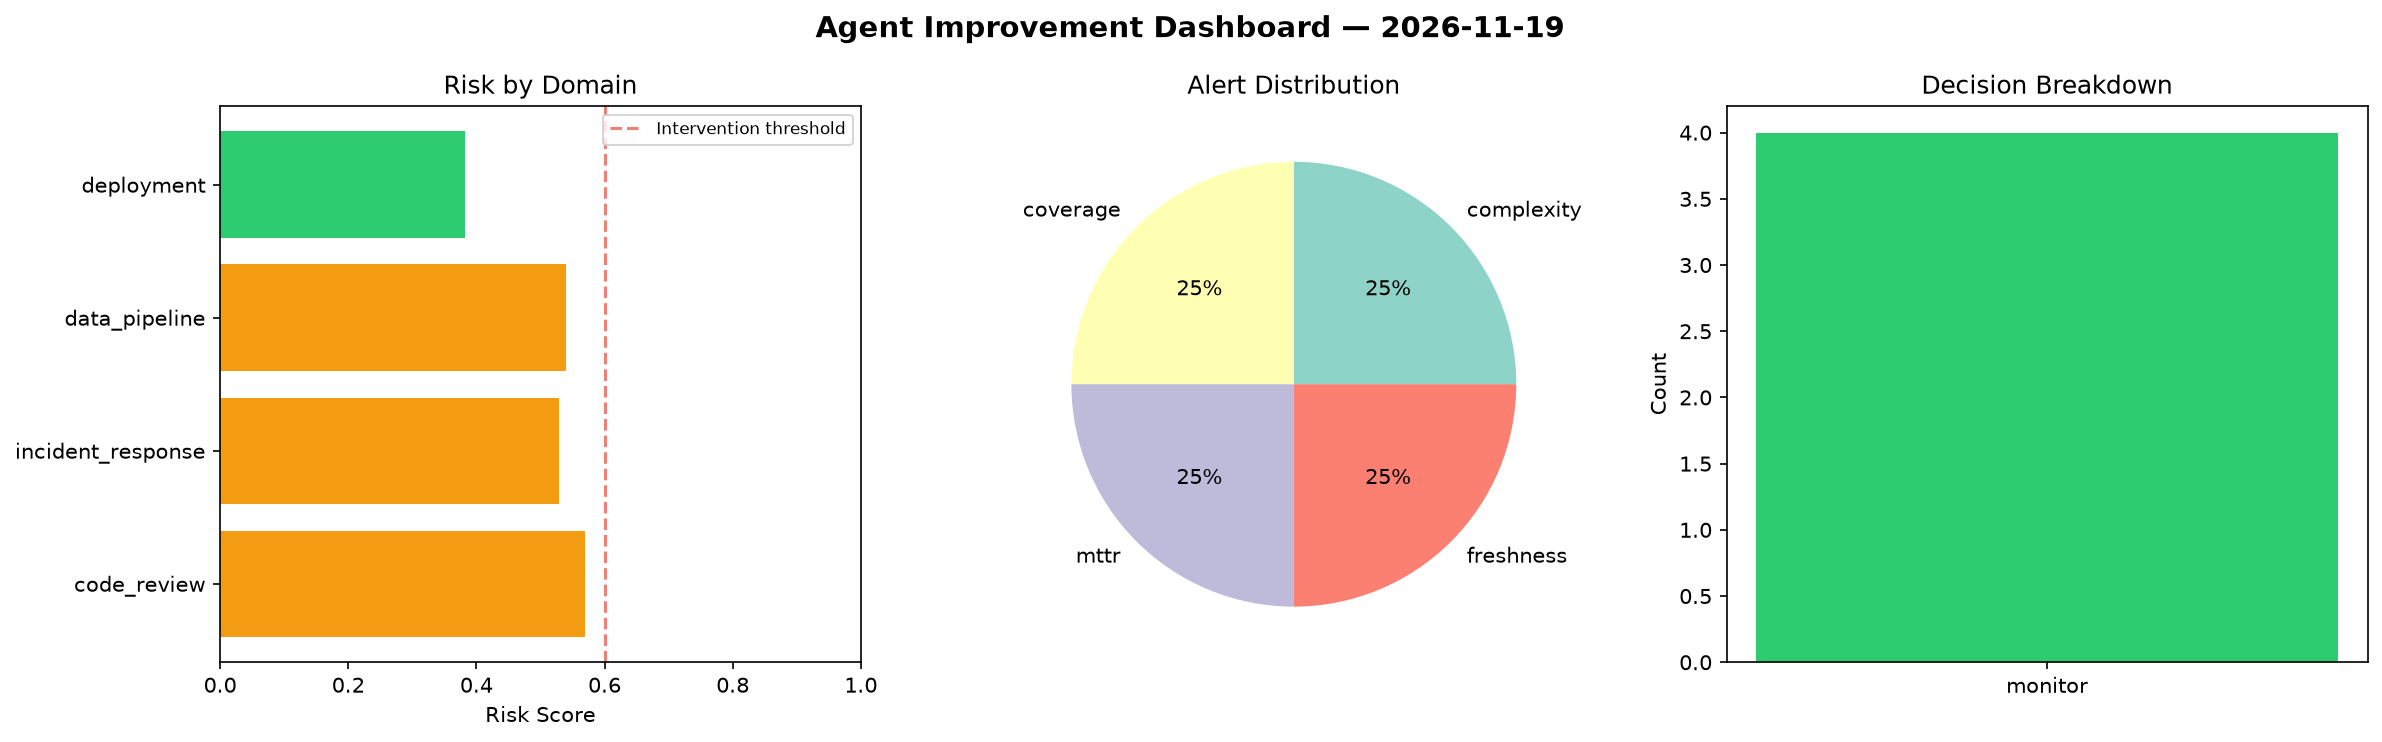
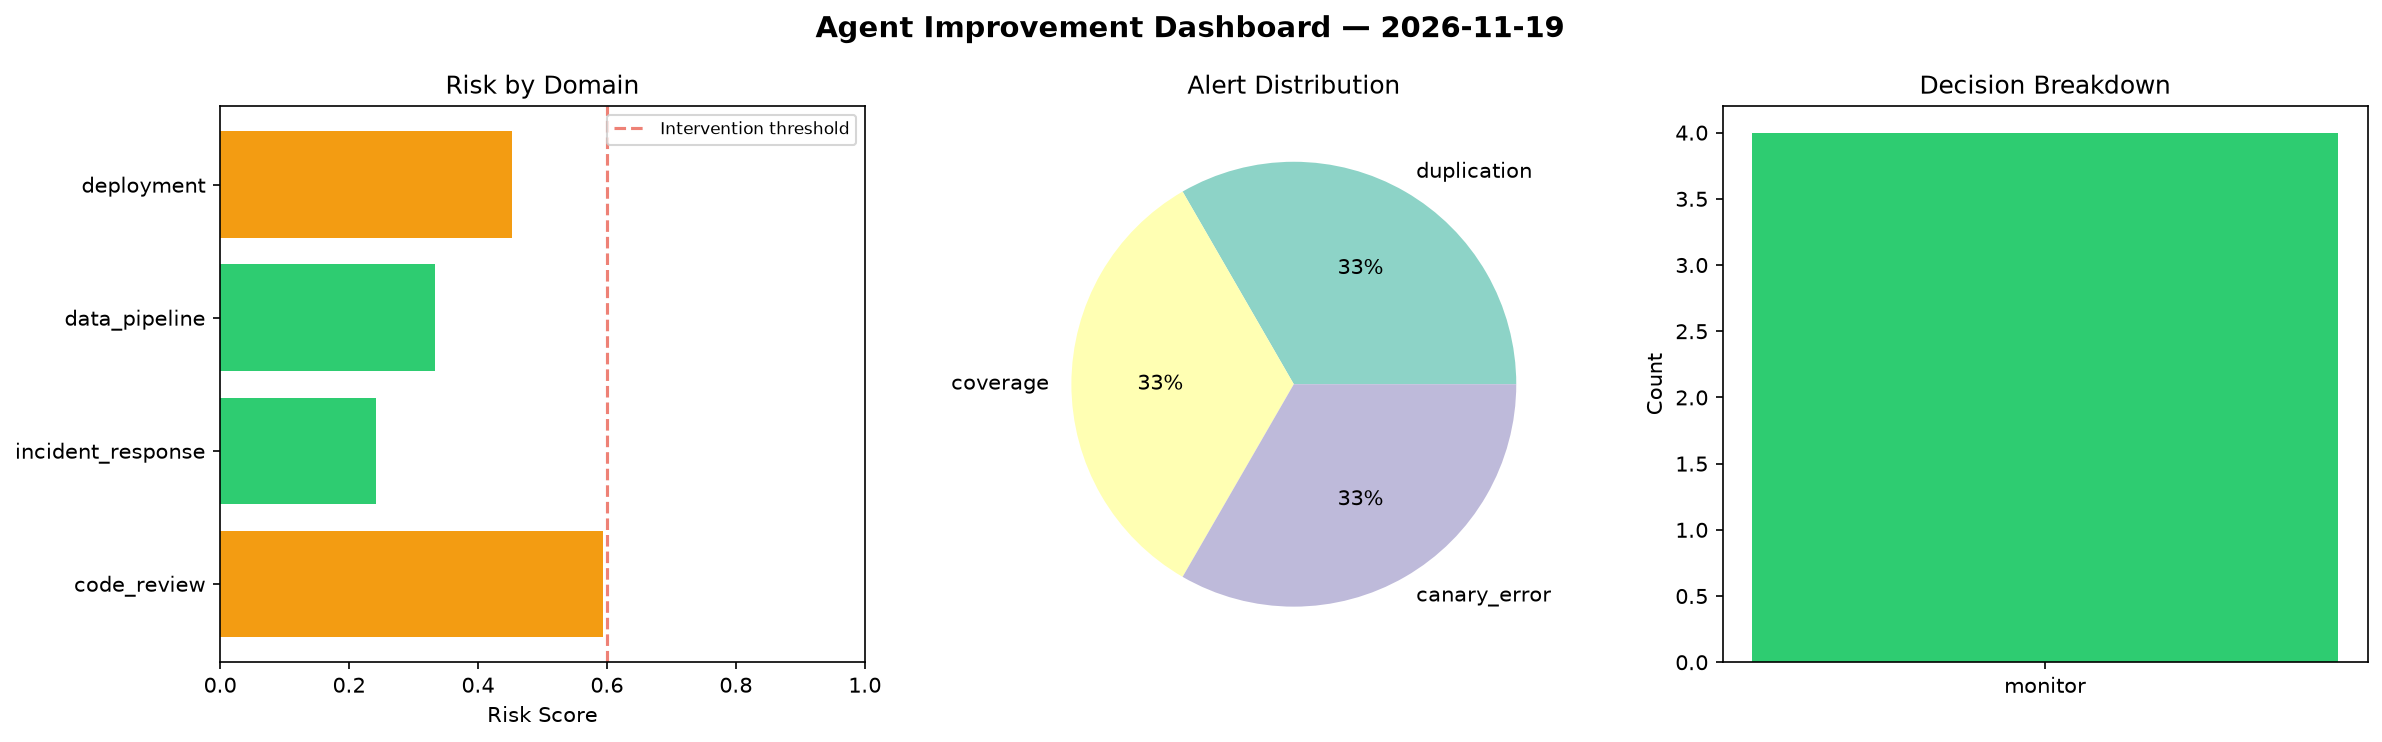
agent-improvement: daily cycle 2026-11-19T10:16

diff --git a/logs/2026-11-19.md b/logs/2026-11-19.md
@@ -1,6 +1,6 @@
 # Agent Improvement Report — 2026-11-19
 
-**Cycle ID:** `527e2544` | **Avg Risk:** 0.5053 | **Interventions:** 0/4
+**Cycle ID:** `73b04ec5` | **Avg Risk:** 0.4053 | **Interventions:** 0/4
 
 ![Dashboard](2026-11-19_dashboard.png)
 
@@ -10,18 +10,18 @@
 
 | Domain | Risk Score | Decision | Alerts |
 |--------|-----------|----------|--------|
-| code_review | 0.5701 | monitor | complexity, coverage |
-| incident_response | 0.529 | monitor | mttr |
-| data_pipeline | 0.5393 | monitor | freshness |
-| deployment | 0.3829 | monitor | none |
+| code_review | 0.5938 | monitor | duplication, coverage |
+| incident_response | 0.2413 | monitor | none |
+| data_pipeline | 0.334 | monitor | none |
+| deployment | 0.4522 | monitor | canary_error |
 
 ## Delta vs Yesterday
 
 | Domain | Today | Yesterday | Change |
 |--------|-------|-----------|--------|
-| code_review | 0.5701 | 0.6794 | 📉 -16.1% |
-| incident_response | 0.529 | 0.3681 | 📈 43.7% |
-| data_pipeline | 0.5393 | 0.559 | 📉 -3.5% |
-| deployment | 0.3829 | 0.4876 | 📉 -21.5% |
+| code_review | 0.5938 | 0.6794 | 📉 -12.6% |
+| incident_response | 0.2413 | 0.3681 | 📉 -34.4% |
+| data_pipeline | 0.334 | 0.559 | 📉 -40.3% |
+| deployment | 0.4522 | 0.4876 | 📉 -7.3% |
 
 **Refinement:** `{'adjustment': 'maintain', 'trend': 'improving', 'window': 4}`
